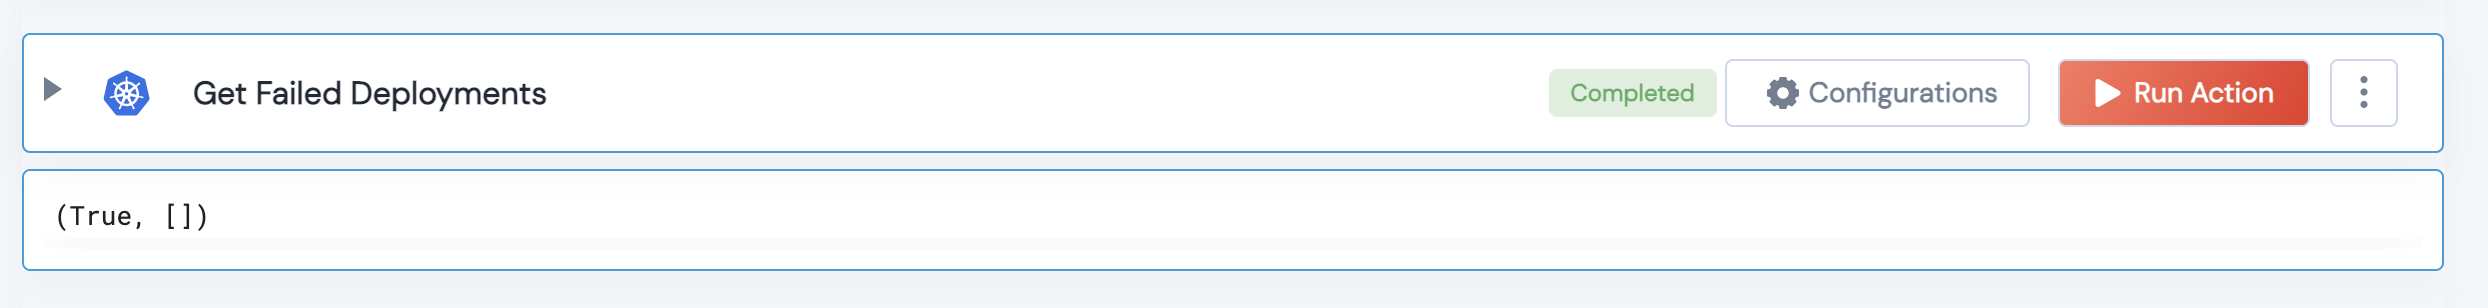
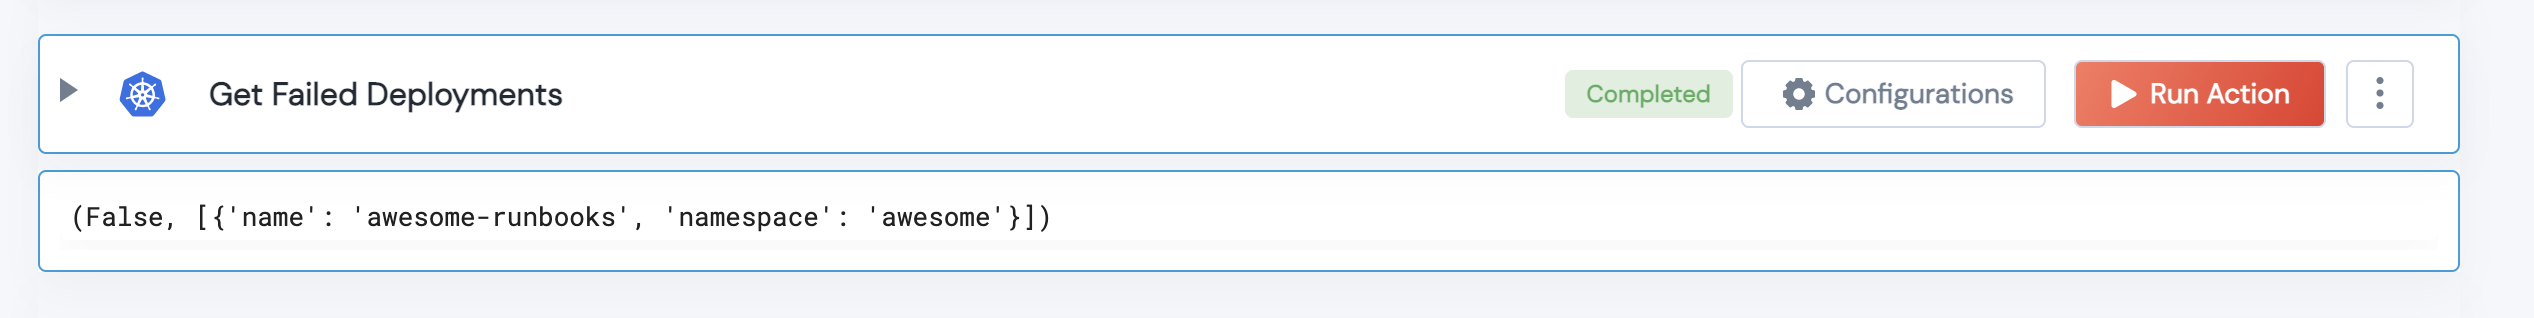
PR Comments

diff --git a/Kubernetes/legos/k8s_get_failed_deployments/k8s_get_failed_deployments.py b/Kubernetes/legos/k8s_get_failed_deployments/k8s_get_failed_deployments.py
@@ -9,7 +9,11 @@ from pydantic import BaseModel, Field
 
 
 class InputSchema(BaseModel):
-    pass
+    namespace: str = Field(
+        '',
+        description="K8S Namespace",
+        title="K8S Namespace"
+    )
 
 def k8s_get_failed_deployments_printer(output):
     if output is None:
@@ -18,7 +22,7 @@ def k8s_get_failed_deployments_printer(output):
     print(output)
 
 
-def k8s_get_failed_deployments(handle) -> Tuple:
+def k8s_get_failed_deployments(handle, namespace: str = '') -> Tuple:
     """k8s_get_failed_deployments Returns the list of all failed deployments across all namespaces
 
     :type handle: Object
@@ -30,16 +34,18 @@ def k8s_get_failed_deployments(handle) -> Tuple:
         raise Exception(f"K8S Connector is invalid {handle}")
 
     apps_client = client.AppsV1Api(api_client=handle)
-    deployments = apps_client.list_deployment_for_all_namespaces().items 
-    retval = {} 
+    if not namespace:
+        deployments = apps_client.list_deployment_for_all_namespaces().items 
+    else:
+        deployments = apps_client.list_namespaced_deployment(namespace).items
+
+    retval = []
     for deployment in deployments:
-        # FIXME. Check for deployment.status.condition 
-        if deployment.status.available_replicas == 0:
-            retval.update(deployment)
-    
-    # FIXME: Add print for diagnostic. 
-    # Return deployment name and namespace in a Tuple. 
-    if not retval:
-        return (False, [retval])
+        cond_dict = deployment.status.conditions[0].to_dict()
+        if cond_dict.get('status') == 'False':
+            retval.append({'name': deployment.metadata.name, 'namespace': deployment.metadata.namespace})
+
+    if retval:
+        return (False, retval)
     
     return (True, [])
